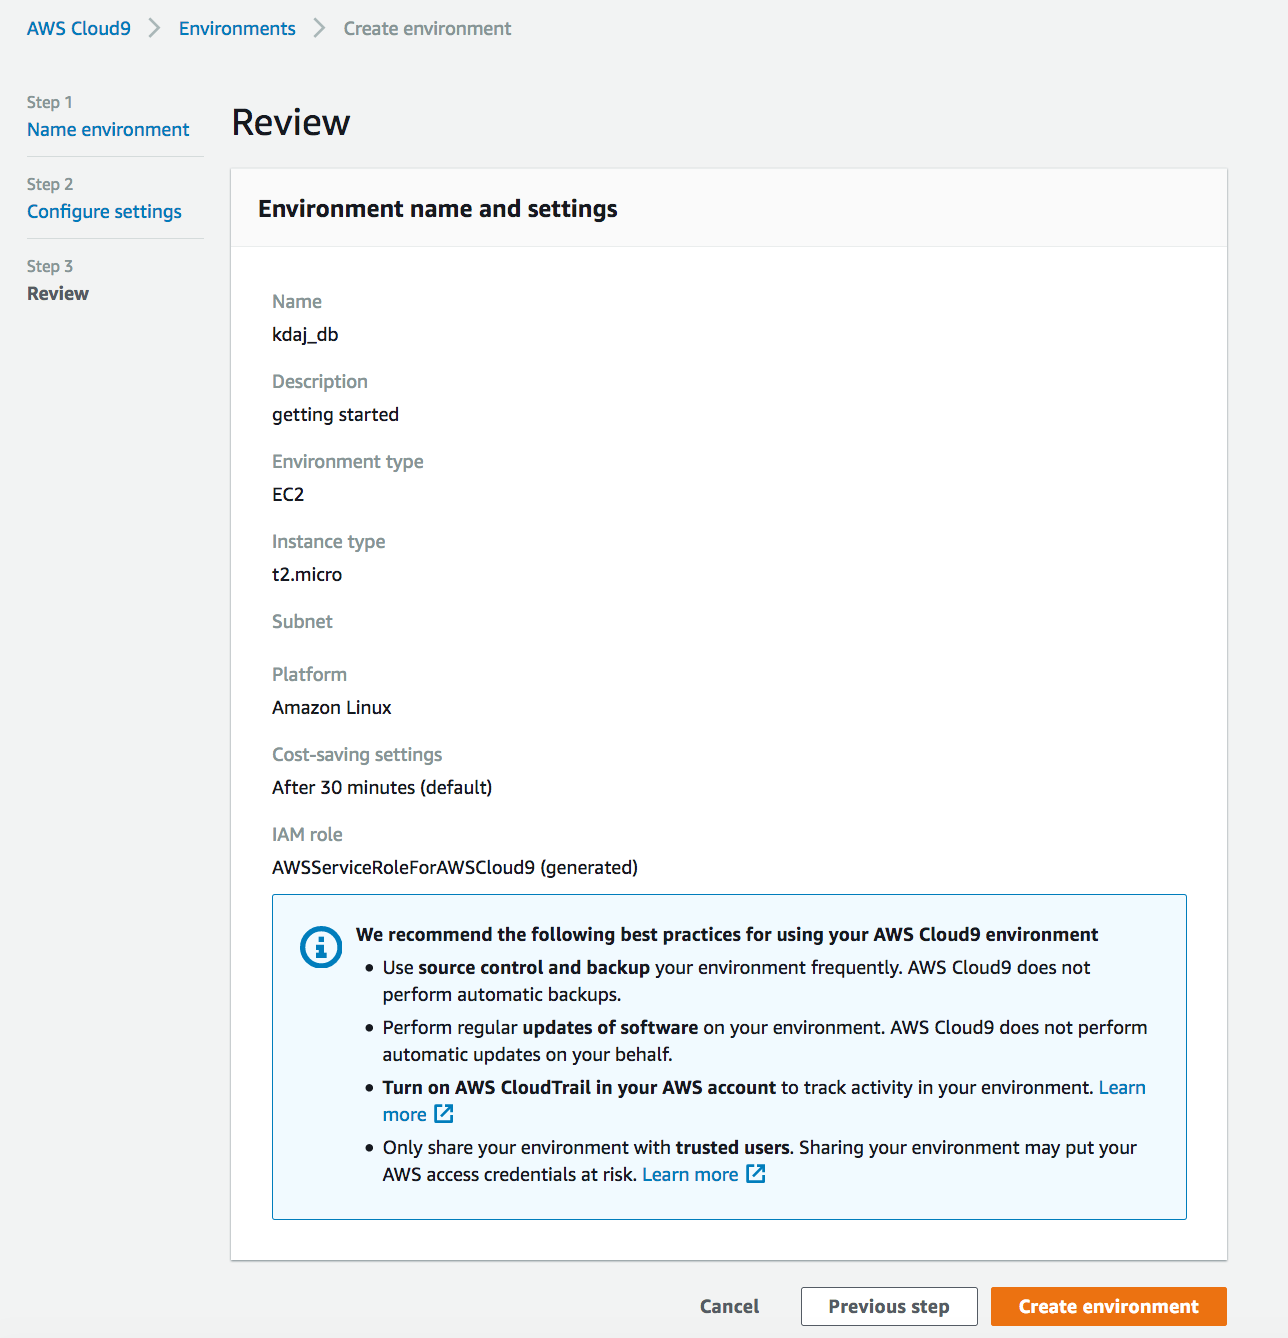
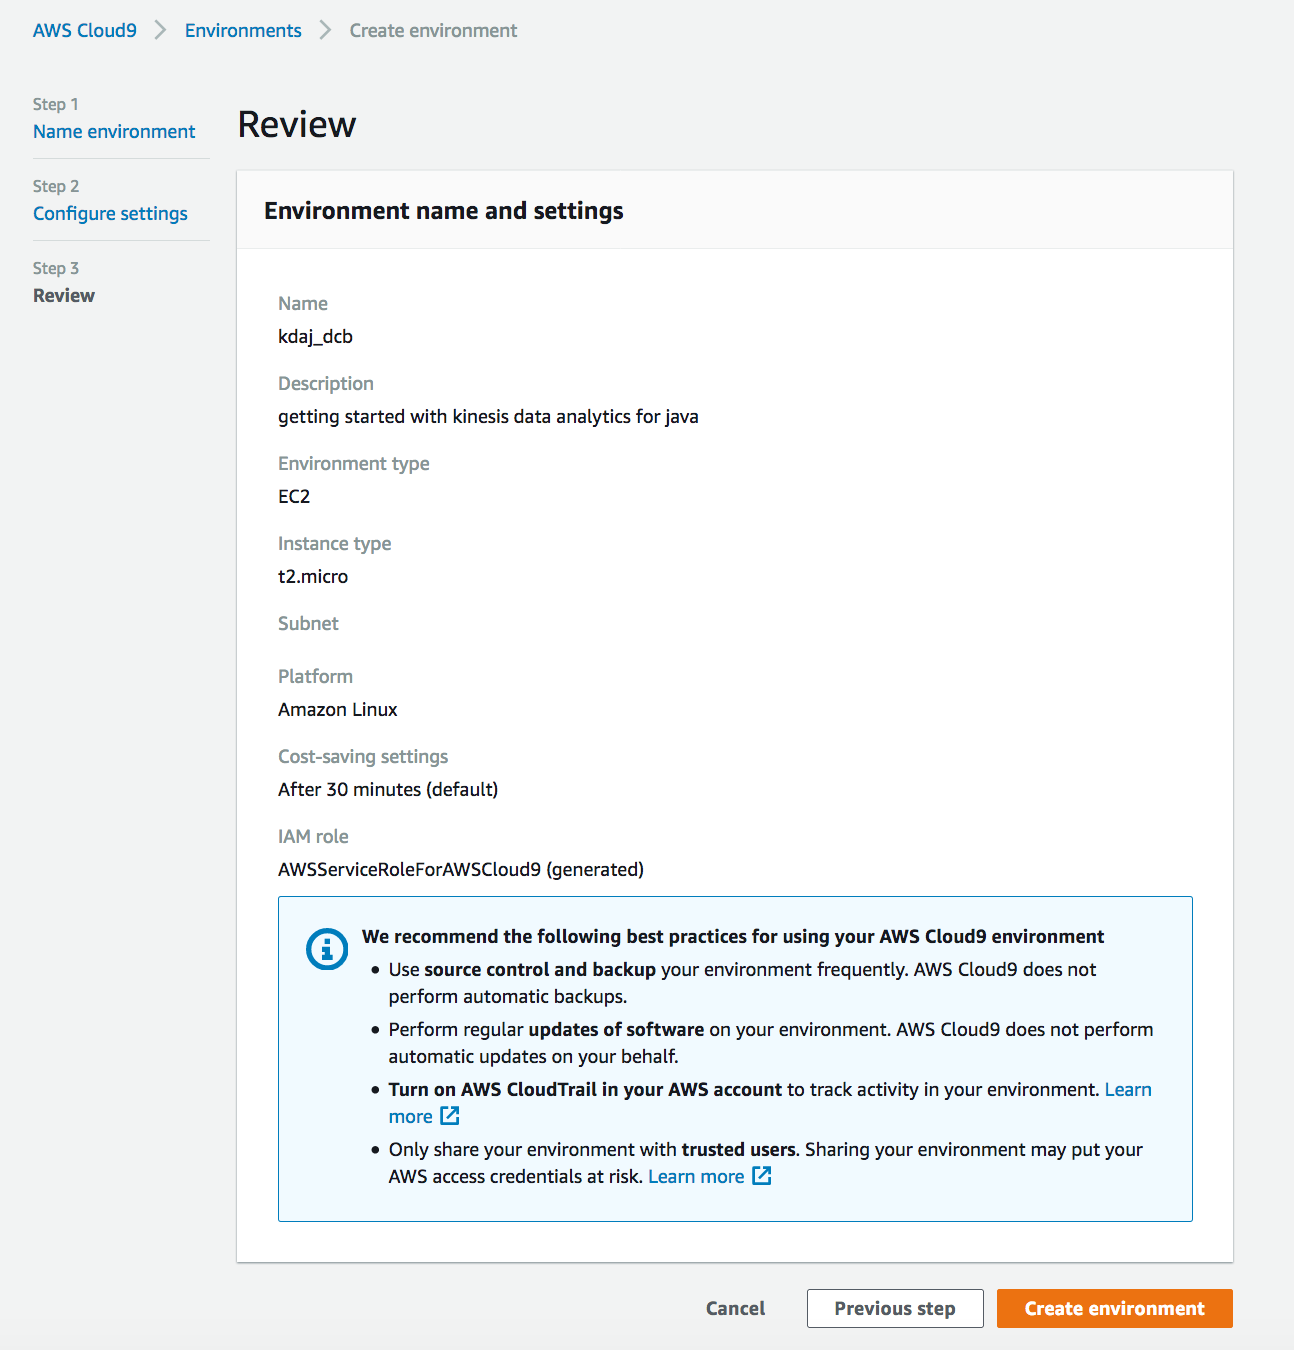
lab1 part2 done

diff --git a/lab1/README.md b/lab1/README.md
@@ -37,7 +37,7 @@ Learn more [here](https://aws.amazon.com/products/storage/data-lake-storage/).
 
 * In the Cloud9 console, click on "Create environment".  
 
-* Enter "kdaj-[your_initials]" for the name.
+* Enter "kdaj_[your_initials]" for the name.
 
 Note: As multiple users may be using the same account bucket in the labs, please use your initials when creating/naming the environment.
 
@@ -57,13 +57,14 @@ Note: As multiple users may be using the same account bucket in the labs, please
 
 ![screenshot](images/C93.png)
 
-A new browser tab will open for your new environment.  It will take a few minutes for the environment to be ready.   While waiting, you can review the Cloud9 IDE tutorial in the step below.
+Cloud9 will now create your new environment.  It will take a few minutes for the environment to be ready.   While waiting, you can start to review the Cloud9 IDE tutorial in the step below.
 
 ### Get familiar with Cloud9
-If new to Cloud9, review the IDE tutorial at [https://docs.aws.amazon.com/cloud9/latest/user-guide/tutorial.html#tutorial-tour-ide](https://docs.aws.amazon.com/cloud9/latest/user-guide/tutorial.html#tutorial-tour-ide)
+If you are new to Cloud9, review the IDE tutorial at [https://docs.aws.amazon.com/cloud9/latest/user-guide/tutorial-tour-ide.html](https://docs.aws.amazon.com/cloud9/latest/user-guide/tutorial-tour-ide.html)
 
 
-### Configure your Cloud9 environment for the prerequisites
+### Configure your Cloud9 environment for the prerequisites for building Kinesis Data Analytics for Java applications
+Kinesis Data Analytics for Java (KDAJ) is based on Apache Flink 1.6.2.  To build applications for KDAJ, we will need to configure Java, Maven, Apache Flink, and the Flink Connector for Kinesis.  We will do that in the following steps.
 
 * Open up your Cloud9 environment if not already open
 
@@ -84,6 +85,8 @@ java -version
 
 ```
 
+When the code is finished running, you should see output like this:
+
 ![screenshot](images/prereq3.png)
 
 * In the terminal, paste and run the following code to setup the Maven environment.
@@ -95,6 +98,8 @@ sudo yum install -y apache-maven
 mvn -version
 
 ```
+
+When the code is finished running, you should see output like this:
 
 ![screenshot](images/prereq4.png)
 
@@ -108,13 +113,15 @@ mvn clean package -B -DskipTests -Dfast -Pinclude-kinesis -pl flink-connectors/f
 
 ```
 
+When the code is finished running, you should see output like this:
+
 ![screenshot](images/prereq5.png)
 
 
-### Download our sample code
-Find out more about the sample code [here](https://docs.aws.amazon.com/kinesisanalytics/latest/java/get-started-exercise.html).
+### Download our sample code for the lab
+This lab is based on the Getting Started tutorial in the Kinesis Data Analytics for Java documentation, which you can find [here](https://docs.aws.amazon.com/kinesisanalytics/latest/java/get-started-exercise.html).
 
-Note: We have tweaked the examples slightly.
+Note: We have tweaked the examples slightly for simplicity.  You can find the original version of the source code [here](https://github.com/aws-samples/amazon-kinesis-data-analytics-java-examples).
 
 * In the terminal, paste and run the following code to setup the Flink 1.6.2 environment and to compile the Kinesis connector for Flink.
 
@@ -123,19 +130,27 @@ cd ~/environment
 git clone https://github.com/dbayardAWS/kinesis-labs.git
 ```
 
+When the code is finished running, you should see output like this:
+
 ![screenshot](images/clone1.png)
 
 
 
 ## Create Kinesis Streams for input and output
 
-```
-# change DB to your initials before running this
-export INITIALS=DB
+* In the terminal, paste and edit and run the following code to define your Initials as a shell variable in the terminal.
 
 ```
+# change DCB to your initials before running this
+export INITIALS=DCB
+
+```
+
+As an example, in the screenshot below, the user changed the INITIALS to ABC:
 
 ![screenshot](images/stream1.png)
+
+* In the terminal, then paste and run the following code to create 2 kinesis streams.  The stream names will have your initials appended to them.
 
 ```
 echo Initials=$INITIALS
@@ -148,6 +163,8 @@ aws kinesis create-stream \
 --shard-count 1 
 
 ```
+
+When the code is finished running, you should see output like this:
 
 ![screenshot](images/stream2.png)
 
@@ -178,7 +195,11 @@ python stock.py
 
 ```
 
+When the code is running, you should see output like this:
+
 ![screenshot](images/stock5.png)
+
+Leave the stock.py producer code running in its terminal tab for now.
 
 
 ### Edit and launch the readStream Consumer
@@ -187,7 +208,7 @@ python stock.py
 
 ![screenshot](images/read1.png)
 
-* Find the my_stream_name parameter in the readStream.py code and append your initials to the Stream name (to match the name of the kinesis input stream you created with the "aws kinesis create-stream" command above).
+* Find the my_stream_name parameter in the readStream.py code and append your initials to the Stream name (do this as well for the commented out line).
 
 Note: at this point, the my_stream_name should be set to the ExampleInputStream[Initials].  In a later exercise, we will point this consumer to the ExampleOutputStream but not yet.
 
@@ -209,18 +230,23 @@ python readStream.py
 
 ```
 
+When the code is running, you should see output like this:
+
 ![screenshot](images/read5.png)
 
-You should see the messages from the Kinesis stream printed out to the console.
+Congratulations!  You have a running producer sending messages to one of your Kinesis Streams and you have a running consumer reading messages from the same stream.
+
+At this point, let's stop the readStream.py consumer.
 
 * In the terminal tab running the readStream.py, type ctrl-c to stop it.
 
-![screenshot](images/read5.png)
+![screenshot](images/read6.png)
 
 
 ### Edit the Getting Started KDAJ application and compile it
+Now that we've tested that we have a working Kinesis setup, let's start with our first Kinesis Data Analytics for Java application.  We have a simple Getting Started application that we will review, compile, and ultimately deploy.
 
-* In the navigator on the left-hand side, expand the kinesis-labs folder, then the src folder, all the way as shown in the below screensot until you get to the BasicStreamingJob.java file.  Double-click on the file to open it in a tab in the editor.
+* In the navigator on the left-hand side, expand the kinesis-labs folder, then the src folder, all the way as shown in the below screensot until you get to the BasicStreamingJob.java file.  You may need to slide the divider between the navigator and the main editor to the right to make the navigator section wider.  Double-click on the file to open it in a tab in the editor.
 
 ![screenshot](images/started1.png)
 
@@ -247,17 +273,28 @@ mvn package
 
 ```
 
+When the code is finished running, you should see output like this:
+
 ![screenshot](images/started4.png)
 
-### Create an s3 bucket to upload code
+At this point, our Getting Started KDAJ application has been compiled and a jar file ready for deployment has been built.  The jar has been placed in the kinesis-labs/src/amazon-kinesis-data-analytics-java-examples/GettingStarted/target directory if you want to look at.
 
-* Using the same Terminal tab you just used to compile/build your KDAJ application, run these 2 sets commands to create a new S3 bucket.  Be sure to redefine the lowercaseusername to your username:
+### Create an s3 bucket to upload code
+Kinesis Data Analytics for Java expects the application jar file to be located on a S3 bucket.  So, we will create a S3 bucket to hold our application.
+
+
+* Using the same Terminal tab you just used to compile/build your KDAJ application, paste and edit and run these commands to define a unique lowercase username (so that your S3 bucket name is unique).
 
 ```
+cd ~/environment
 # change "dbayard" to your username (in lowercase, no spaces) before running this
 export lowercaseusername=dbayard
 
 ```
+
+As an example, in the screenshot below, the user changed the lowercaseusername to anyuser:
+
+![screenshot](images/s30.png)
 
 ```
 echo lowercaseusername=$lowercaseusername
@@ -267,7 +304,7 @@ aws s3 mb s3://lab-kdaj-app-code-$lowercaseusername
 
 ![screenshot](images/s31.png)
 
-### copy the jar file to the s3 bucket
+### Copy the application jar file to the s3 bucket
 
 * Using the same Terminal tab, run these commands to copy the generated .jar file your KDAJ application to the s3 bucket:
 
@@ -279,9 +316,11 @@ aws s3 cp aws-kinesis-analytics-java-apps-1.0.jar s3://lab-kdaj-app-code-$lowerc
 
 ```
 
+When the code is finished running, you should see output like this:
+
 ![screenshot](images/s32.png)
 
-### use the UI to define the KDAJ application
+### Use the UI to define the KDAJ application
 
 * In the AWS Console, use the Services menu and navigate to the Kinesis console.  One way to do so, is to expand the Services top menu and type "Kinesis" in the service search field.
 
@@ -295,13 +334,13 @@ aws s3 cp aws-kinesis-analytics-java-apps-1.0.jar s3://lab-kdaj-app-code-$lowerc
 
 * On the Create Application page, enter "kdaj_app_INTITALS" for the application name, where your replace INITIALS with your initials.
 
-* Enter a description of your liking
+  * Enter a description of your liking
 
-* Choose Apache Flink 1.6 for the Runtime
+  * Choose Apache Flink 1.6 for the Runtime
 
-* Leave the default of "Create / update IAM..." for the Access permisions
+  * Leave the default of "Create / update IAM..." for the Access permisions
 
-* Click Create application
+  * Click Create application
 
 ![screenshot](images/kin3.png)
 
@@ -311,62 +350,67 @@ aws s3 cp aws-kinesis-analytics-java-apps-1.0.jar s3://lab-kdaj-app-code-$lowerc
 
 * On the Configure application page, pick the S3 bucket you created earlier.  It will be named something like lab-kdaj-app-code-[lowercaseusername].
 
-* For the S3 object path, enter this value:
+  * For the S3 object path, enter this value:
 
 ```
 java-getting-started-1.0.jar
 ```
 
-* Expand Snapshots and disable them
+  * Expand Snapshots and disable them
 
-* Expand Monitoring and enable Cloudwatch Logging.  Leave the level of logging to WARN for now.
+  * Expand Monitoring and enable CloudWatch Logging.  Set the Monitoring log level to WARN.
 
-Hint: if you need to debug why your KDAJ application isn't working, you may need to change this INFO at a later point.
+Hint: if you ever need to debug why your KDAJ application isn't working, you may need to change this Monitoring log level to INFO at a later point.
 
 * Click the Update button
 
 
 ![screenshot](images/kin5.png)
+![screenshot](images/kin5a.png)
 
-* Now run the application by clicking the Run button and when it asks if you are sure, click the Run button again
 
-![screenshot](images/kin6.png)
-
-At this point, your Flink application is starting.  It may take a few minutes to start.
-
-* Wait until the Application Status says running
-
-![screenshot](images/kin7.png)
 
 ### Add permissions to the generated IAM policy for your application
 Even though the KDAJ Console generated an IAM policy for your application, the Console does not know that your java code wants to read the ExampleInputStream kinesis stream and write to the ExampleOutputStream kinesis stream.  As such, the Console UI didn't add those permissions to your applications IAM policy.
 
 Let's now edit the application's policy to add permissions so that the application can run OK.
 
+* In the Kinesis console for your KDAJ application, scroll down to the details section of the page.  Look for the IAM role section and click on the link to open the IAM role in the IAM console.
 
-Open the IAM console at https://console.aws.amazon.com/iam/.
+![screenshot](images/iam1.png)
 
-Choose Policies. Choose the kinesis-analytics-service-kdaj_app_[INITIALS]-[REGION] policy that the console created for you in the previous section.  Hint: type "kdaj" in the search box.
+* Click on "Add inline policy"
 
-On the Summary page, choose Edit policy. Choose the JSON tab.
+![screenshot](images/iam2.png)
 
-Add the highlighted section of the following policy example to the policy. Replace the sample account IDs (012345678901) with your account ID. 
-arn:aws:kinesis:us-east-1:946160804628:stream/ExampleInputStreamDB
+* Click on the JSON tab
 
+![screenshot](images/iam3.png)
+
+* Copy the following JSON and paste it over the contents in the JSON editor.  Then, you will need to make 4 edits:
+
+  * Append your initials to the stream name (you will do this for both the ExampleInputStream and the ExampleOutputStream)
+  * Replace the sample account ID (1234567890) with your account ID.  Hint: you can lookup your account ID by going back to your Kinesis console tab.  On the web page for your Kinesis Analytics application, you will see your account ID in details section as part of the Application ARN field.
+
+
+```
 {
+    "Version": "2012-10-17",
+    "Statement": [
+        {
             "Sid": "ReadInputStream",
             "Effect": "Allow",
             "Action": "kinesis:*",
-            "Resource": "arn:aws:kinesis:us-east-1:535356700373:stream/ExampleInputStream"
+            "Resource": "arn:aws:kinesis:us-east-1:1234567890:stream/ExampleInputStream"
         },
         {
             "Sid": "WriteOutputStream",
             "Effect": "Allow",
             "Action": "kinesis:*",
-            "Resource": "arn:aws:kinesis:us-east-1:535356700373:stream/ExampleOutputStream"
+            "Resource": "arn:aws:kinesis:us-east-1:1234567890:stream/ExampleOutputStream"
         },
         {
-            "Sid": "Stmt789",
+            "Sid": "KPLCloudwatch",
             "Effect": "Allow",
             "Action": [
               "cloudwatch:PutMetricData"
@@ -375,9 +419,40 @@ arn:aws:kinesis:us-east-1:946160804628:stream/ExampleInputStreamDB
               "*"
             ]
         }
+    ]
+}        
 
+```
+
+![screenshot](images/iam4.png)
+
+* Having made the edits for your Initials and account id, then click the "Review policy" button.
+
+* Then define a name for your policy, such as "KDAJ_stream_permissions" and click "Create policy"
+
+![screenshot](images/iam5.png)
+
+### Now run your application
+
+* Navigate back to your application in the Kinesis console in the browser.
+
+* Now run the application by clicking the Run button and when it asks if you are sure, click the Run button again
+
+![screenshot](images/kin6.png)
+
+At this point, your Flink application is starting.  It will take a few minutes to start.
+
+* Wait until the Application Status says running
+
+![screenshot](images/kin7.png)
+
+* Hint: You may need to use the browser's refresh button to get the visual Application Graph to display
+
+
+![screenshot](images/kin8.png)
 
 ### Edit the readStream.py consumer
+Now that our Getting Started KDAJ application is running, let's edit our readStream.py consumer to show the contents of the ExampleOutputStream.  Our Getting Started application should be reading from the ExampleInputStream and writing to the ExampleOutputStream.
 
 * Go back to your Cloud9 IDE browser page.  Click on the existing tab for the readStream.py file.
 
@@ -397,6 +472,24 @@ python readStream.py
 
 ```
 
+
+While the code is running, you should see output like this:
+
+![screenshot](images/read8.png)
+
+Congratulations!  You have a running Kinesis Data Analytics for Java application reading messages from one of your Kinesis Streams and writing messages to a different stream.
+
+At this point, let's stop the readStream.py consumer.
+
+* In the terminal tab running the readStream.py, type ctrl-c to stop it.
+
+![screenshot](images/read6.png)
+
+
+
+
+
+### more stuff
 ```
 echo INITIALS=$INITIALS
 aws kinesisanalyticsv2 list-applications
